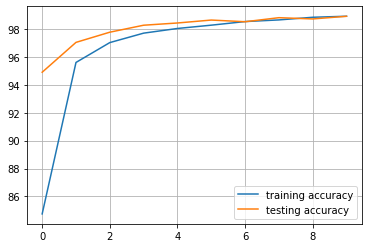
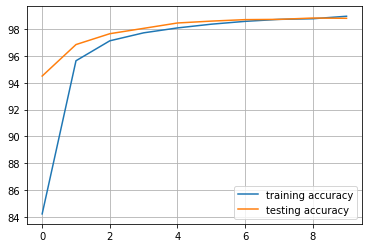
updated figures and prediction code for model trainer

diff --git a/src/training/model_trainer.py b/src/training/model_trainer.py
@@ -1,10 +1,12 @@
-from typing import Callable, Iterator
+from typing import Callable, Iterator, Mapping, Any
 from typing import Optional
 
 import torch
 import torch.cuda
 import torch.nn as nn
 import torch.utils.data as data
+from PIL import Image
+from colorama import Fore
 from torch.nn.parameter import Parameter
 
 from src.training.config import TrainingConfig
@@ -20,8 +22,8 @@ class ModelTrainer(object):
             criterion: nn.Module,
             training_config: TrainingConfig,
             training_data: data.Dataset,
-            cuda: Optional[bool],
-            validation_data: Optional[data.Dataset],
+            cuda: Optional[bool] = False,
+            validation_data: Optional[data.Dataset] = None,
     ):
         self.train_loader = data.DataLoader(training_data, batch_size=training_config.batch_size, shuffle=True)
         self.validation_loader = data.DataLoader(validation_data, batch_size=training_config.batch_size, shuffle=True)
@@ -33,7 +35,7 @@ class ModelTrainer(object):
                 self.device = torch.device('cuda:0')
                 print(f'using {torch.cuda.get_device_name(self.device.index)}')
             else:
-                print(f'no gpu available, processing on cpu')
+                print('no gpu available, processing on cpu')
 
         self.model = model.to(self.device)
         self.optimizer = optimizer(self.model.parameters(), training_config.lr)
@@ -48,20 +50,20 @@ class ModelTrainer(object):
 
         for e in range(epochs):
             for x, y in self.train_loader:
-                loss, corrects = self.single_pass(x, y)
-                training_metrics.update(loss, corrects)
+                loss, accuracy = self.single_pass(x, y)
+                training_metrics.update(loss, accuracy)
 
             training_metrics.record()
-            training_metrics.print(e)
+            training_metrics.print(e, Fore.CYAN)
 
             if validation:
                 with torch.no_grad():
                     for x, y in self.validation_loader:
-                        loss, corrects = self.single_pass(x, y)
-                        validation_metrics.update(loss, corrects)
+                        loss, accuracy = self.single_pass(x, y)
+                        validation_metrics.update(loss, accuracy)
 
                     validation_metrics.record()
-                    validation_metrics.print(e)
+                    validation_metrics.print(e, Fore.YELLOW)
 
         return training_metrics, validation_metrics
 
@@ -77,5 +79,23 @@ class ModelTrainer(object):
             loss.backward()
             self.optimizer.step()
 
-        preds = torch.argmax(y_pred, 1)
-        return loss.item(), torch.sum(preds == y.data).item()
+        preds = torch.argmax(y_pred, dim=1)
+        return loss.item(), (torch.sum(preds == y.data).item() / y.shape[0]) * 100
+
+    def predict(
+            self,
+            img: Image,
+            transform: Callable,
+            preprocess: Optional[Callable] = None,
+            classes: Optional[Mapping[int, str]] = None
+    ) -> Any:
+        if preprocess:
+            img = preprocess(img)
+
+        img = transform(img)
+        img = img.to(self.device).unsqueeze(0)
+        with torch.no_grad():
+            y_pred = self.model(img)
+
+        pred = torch.argmax(y_pred, dim=1)
+        return classes[pred.item()] if classes else pred.item()

diff --git a/src/training/metrics/metrics_recorder.py b/src/training/metrics/metrics_recorder.py
@@ -1,28 +1,28 @@
 class MetricsRecorder(object):
 
-    def __init__(self, name):
+    def __init__(self, name: str):
         self.name = name
         self.update_count = 0.
         self.running_loss = 0.
-        self.running_corrects = 0.
+        self.running_accuracy = 0.
         self.losses = []
         self.accuracies = []
 
     def update(self, loss: float, accuracy: float):
         self.running_loss += loss
-        self.running_corrects += accuracy
+        self.running_accuracy += accuracy
         self.update_count += 1
 
     def clear(self):
         self.update_count = 0.
         self.running_loss = 0.
-        self.running_corrects = 0.
+        self.running_accuracy = 0.
 
     def record(self):
         self.losses.append(self.running_loss / self.update_count)
-        self.accuracies.append(self.running_corrects / self.update_count)
+        self.accuracies.append(self.running_accuracy / self.update_count)
         self.clear()
 
-    def print(self, epoch: int):
+    def print(self, epoch: int, color_prefix: str):
         data = [f'{self.name}:', f'epoch: {epoch}', f'loss: {self.losses[-1]}', f'accuracy: {self.accuracies[-1]}']
-        print('{: <20}{: <10}{: <30}{: <30}'.format(*data))
+        print(color_prefix + '{: <20}{: <20}{: <30}{: <30}'.format(*data))

diff --git a/README.md b/README.md
@@ -26,7 +26,7 @@ model = LeNet()
 
 ```python
 transform = transforms.Compose([
-    transforms.Resize((28,28)),
+    transforms.Resize((28, 28)),
     transforms.ToTensor(),
     transforms.Normalize((0.5,), (0.5,))
 ])
@@ -79,30 +79,31 @@ training_metrics, testing_metrics = model_trainer.train(10, True)
       return torch.max_pool2d(input, kernel_size, stride, padding, dilation, ceil_mode)
     
 
-    training metrics:   epoch: 0  loss: 0.5660764900470774      accuracy: 84.745              
-    testing metrics:    epoch: 0  loss: 0.17687464848160744     accuracy: 94.9                
-    training metrics:   epoch: 1  loss: 0.149194760688891       accuracy: 95.60166666666667   
-    testing metrics:    epoch: 1  loss: 0.10237489618360997     accuracy: 97.04               
-    training metrics:   epoch: 2  loss: 0.09915908887982368     accuracy: 97.025              
-    testing metrics:    epoch: 2  loss: 0.07482448821887373     accuracy: 97.77               
-    training metrics:   epoch: 3  loss: 0.0767439952896287      accuracy: 97.70166666666667   
-    testing metrics:    epoch: 3  loss: 0.060018064426258205    accuracy: 98.27               
-    training metrics:   epoch: 4  loss: 0.06538150800547252     accuracy: 98.03666666666666   
-    testing metrics:    epoch: 4  loss: 0.05361601756885648     accuracy: 98.43               
-    training metrics:   epoch: 5  loss: 0.05587025833937029     accuracy: 98.27333333333333   
-    testing metrics:    epoch: 5  loss: 0.04519161452539265     accuracy: 98.64               
-    training metrics:   epoch: 6  loss: 0.04881695498013869     accuracy: 98.53166666666667   
-    testing metrics:    epoch: 6  loss: 0.045814448073506354    accuracy: 98.52               
-    training metrics:   epoch: 7  loss: 0.04415119583640868     accuracy: 98.65               
-    testing metrics:    epoch: 7  loss: 0.03866033910308033     accuracy: 98.81               
-    training metrics:   epoch: 8  loss: 0.03902378518444796     accuracy: 98.84               
-    testing metrics:    epoch: 8  loss: 0.03777801387012005     accuracy: 98.72               
-    training metrics:   epoch: 9  loss: 0.03686355788144283     accuracy: 98.91333333333333   
-    testing metrics:    epoch: 9  loss: 0.033952858552802355    accuracy: 98.91               
+    [36mtraining metrics:   epoch: 0            loss: 0.588324301900963       accuracy: 84.21               
+    [33mtesting metrics:    epoch: 0            loss: 0.18643051460385324     accuracy: 94.5                
+    [36mtraining metrics:   epoch: 1            loss: 0.14885117702186107     accuracy: 95.64166666666667   
+    [33mtesting metrics:    epoch: 1            loss: 0.1016111133620143      accuracy: 96.85               
+    [36mtraining metrics:   epoch: 2            loss: 0.09786805480408171     accuracy: 97.13               
+    [33mtesting metrics:    epoch: 2            loss: 0.07525796432979405     accuracy: 97.66               
+    [36mtraining metrics:   epoch: 3            loss: 0.07631667819184562     accuracy: 97.725              
+    [33mtesting metrics:    epoch: 3            loss: 0.062078393250703814    accuracy: 98.06               
+    [36mtraining metrics:   epoch: 4            loss: 0.06373392862578232     accuracy: 98.09166666666667   
+    [33mtesting metrics:    epoch: 4            loss: 0.04973903632722795     accuracy: 98.46               
+    [36mtraining metrics:   epoch: 5            loss: 0.054361451430401456    accuracy: 98.37               
+    [33mtesting metrics:    epoch: 5            loss: 0.04480049651581794     accuracy: 98.6                
+    [36mtraining metrics:   epoch: 6            loss: 0.04776036777611201     accuracy: 98.58166666666666   
+    [33mtesting metrics:    epoch: 6            loss: 0.03931979386834428     accuracy: 98.71               
+    [36mtraining metrics:   epoch: 7            loss: 0.04189798879592369     accuracy: 98.73               
+    [33mtesting metrics:    epoch: 7            loss: 0.03871411559171975     accuracy: 98.73               
+    [36mtraining metrics:   epoch: 8            loss: 0.03902356477182669     accuracy: 98.77666666666667   
+    [33mtesting metrics:    epoch: 8            loss: 0.03641769108595327     accuracy: 98.83               
+    [36mtraining metrics:   epoch: 9            loss: 0.034960786242348454    accuracy: 98.96333333333334   
+    [33mtesting metrics:    epoch: 9            loss: 0.035331167161930355    accuracy: 98.81               
     
 
 
 ```python
+plt.figure(facecolor='white')
 plt.plot(training_metrics.losses, label='training loss')
 plt.plot(testing_metrics.losses, label='testing loss')
 plt.grid()
@@ -112,7 +113,7 @@ plt.legend()
 
 
 
-    <matplotlib.legend.Legend at 0x21f38f44220>
+    <matplotlib.legend.Legend at 0x1fc13e73460>
 
 
 
@@ -124,6 +125,7 @@ plt.legend()
 
 
 ```python
+plt.figure(facecolor='white')
 plt.plot(training_metrics.accuracies, label='training accuracy')
 plt.plot(testing_metrics.accuracies, label='testing accuracy')
 plt.grid()
@@ -133,7 +135,7 @@ plt.legend()
 
 
 
-    <matplotlib.legend.Legend at 0x21f14ba1b20>
+    <matplotlib.legend.Legend at 0x1fc00097ee0>
 
 
 
@@ -149,7 +151,7 @@ import requests
 from PIL import Image, ImageOps
 
 url = 'https://images.homedepot-static.com/productImages/007164ea-d47e-4f66-8d8c-fd9f621984a2/svn/architectural-mailboxes-house-letters-numbers-3585b-5-64_1000.jpg'
-response = requests.get(url, stream = True)
+response = requests.get(url, stream=True)
 img = Image.open(response.raw)
 plt.imshow(img)
 ```
@@ -157,7 +159,7 @@ plt.imshow(img)
 
 
 
-    <matplotlib.image.AxesImage at 0x21f27b61790>
+    <matplotlib.image.AxesImage at 0x1fc10878b80>
 
 
 
@@ -169,26 +171,21 @@ plt.imshow(img)
 
 
 ```python
-img = ImageOps.invert(ImageOps.grayscale(img))
-img = img.convert('1')
-img = transform(img)
+def preprocess(img: Image):
+    img = ImageOps.invert(ImageOps.grayscale(img))
+    img = img.convert('1')
+    
+    return img
 ```
 
 
 ```python
-import torch
-
-device = torch.device('cuda:0')
-images = img.to(device)
-image = images[0].unsqueeze(0).unsqueeze(0)
-output = model.predict(image)
-print(output)
+model_trainer.predict(img, transform, preprocess)
 ```
+
+
+
 
     5
-    
 
 
-```python
-
-```
